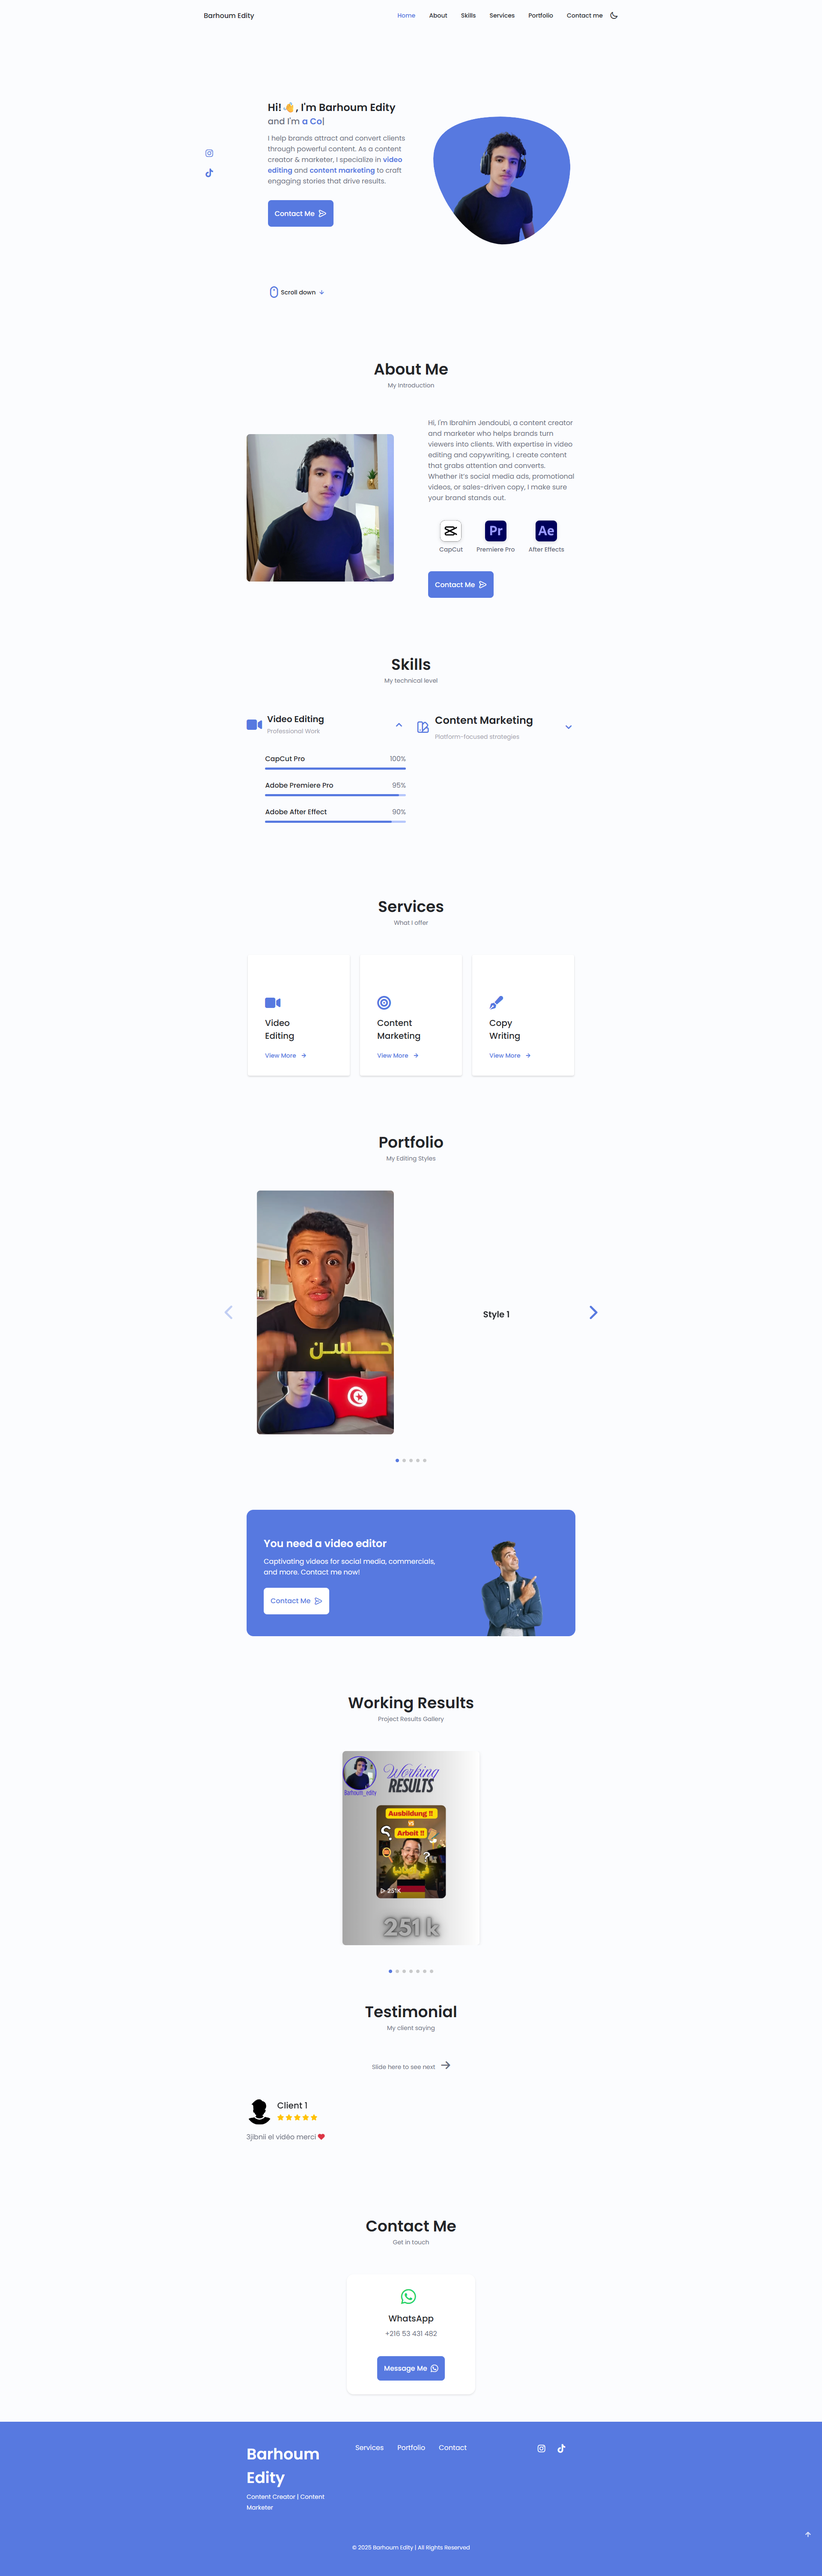
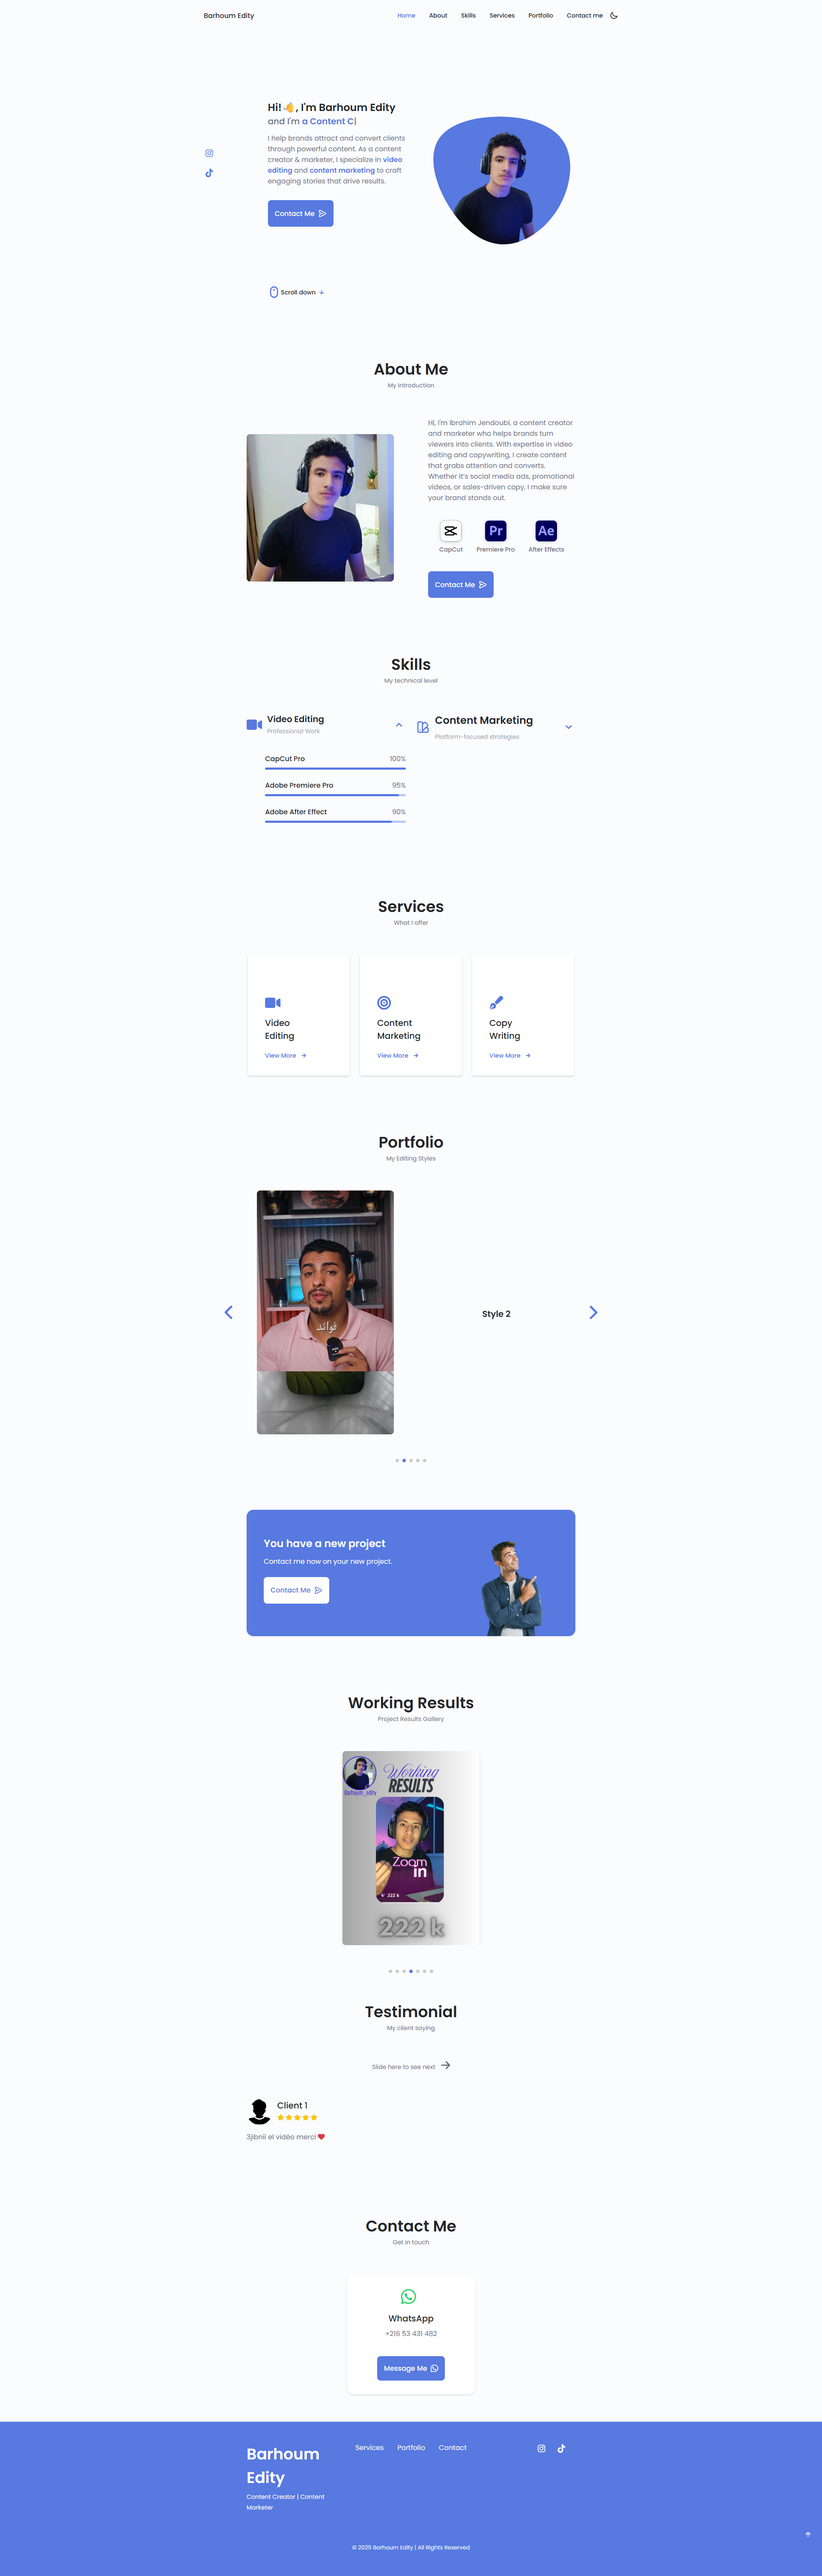
Add files via upload

Changed region(s): [[0.3125, 0.4355, 0.5, 0.56], [0.4375, 0.6844, 0.5625, 0.7466], [0.3125, 0.5911, 0.4688, 0.6533]]

diff --git a/index.html b/index.html
@@ -501,8 +501,8 @@ Copyright © 2025 Rayen. All rights reserved.
             <div data-aos="fade-in" class="project__bg">
                 <div class="project__container container grid">
                     <div class="project__data">
-                        <h2 class="project__title">You need a video editor</h2>
-                        <p class="project__description">Captivating videos for social media, commercials, and more. Contact me now!</p>
+                        <h2 class="project__title">You have a new project</h2>
+                        <p class="project__description">Contact me now on your new project.</p>
                         <a href="#contact" class="button button--flex button--white">
                             Contact Me
                             <i class="uil uil-message project__icon button__icon"></i>

diff --git a/assets/css/style.css b/assets/css/style.css
@@ -829,6 +829,7 @@ body.dark-theme .skill__icon img {
   height: 60px;
   border-radius: 50%;
   margin-right: var(--mb-0-75);
+  background-color: #fff;
 }
 
 .testimonial__name {
